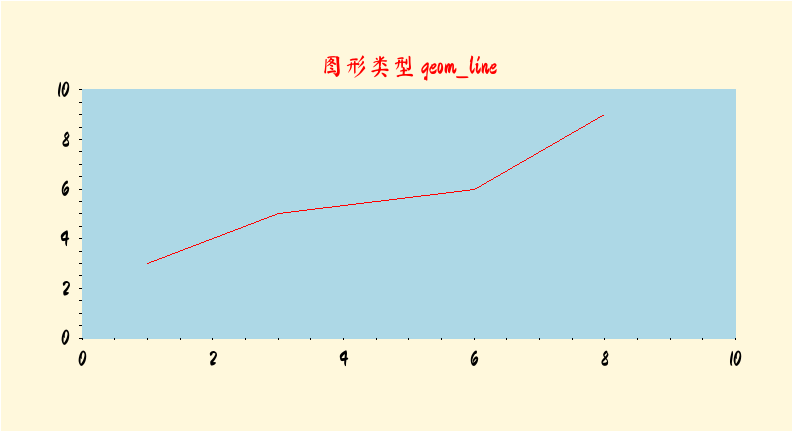
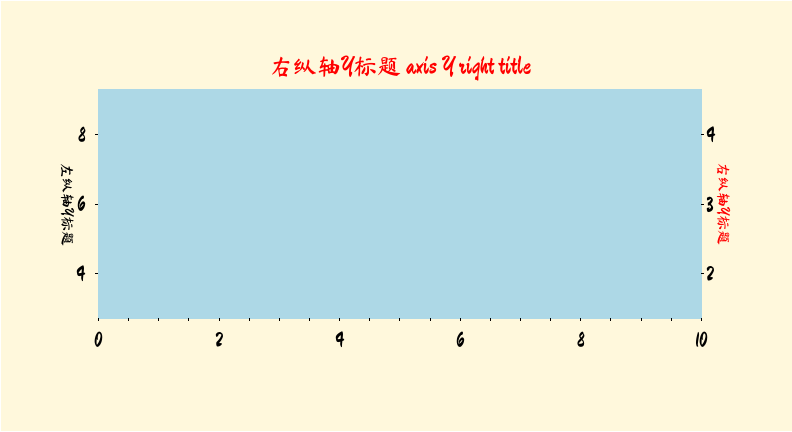
flextable demo

diff --git a/03-slide-class/03-visualization-A-graph.html b/03-slide-class/03-visualization-A-graph.html
@@ -10,6 +10,18 @@
     <link href="libs/tachyons/tachyons.min.css" rel="stylesheet" />
     <link href="libs/panelset/panelset.css" rel="stylesheet" />
     <script src="libs/panelset/panelset.js"></script>
+    <link href="libs/tabwid/tabwid.css" rel="stylesheet" />
+    <script src="libs/htmlwidgets/htmlwidgets.js"></script>
+    <script src="libs/jquery/jquery.min.js"></script>
+    <link href="libs/datatables-css/datatables-crosstalk.css" rel="stylesheet" />
+    <script src="libs/datatables-binding/datatables.js"></script>
+    <link href="libs/dt-core/css/jquery.dataTables.min.css" rel="stylesheet" />
+    <link href="libs/dt-core/css/jquery.dataTables.extra.css" rel="stylesheet" />
+    <script src="libs/dt-core/js/jquery.dataTables.min.js"></script>
+    <link href="libs/crosstalk/css/crosstalk.css" rel="stylesheet" />
+    <script src="libs/crosstalk/js/crosstalk.min.js"></script>
+    <script src="libs/kePrint/kePrint.js"></script>
+    <link href="libs/lightable/lightable.css" rel="stylesheet" />
     <link rel="stylesheet" href="../mycss/my-theme.css" type="text/css" />
     <link rel="stylesheet" href="../mycss/my-font.css" type="text/css" />
     <link rel="stylesheet" href="../mycss/my-custom-for-video-roomy.css" type="text/css" />
@@ -33,7 +45,7 @@ class: center,middle
 
 ### huhuaping01@hotmail.com
 
-### 2021-04-30
+### 2021-05-06
 
 
 
@@ -254,8 +266,39 @@ exclude: true
 
 ]
 
+
 ]
 
+---
+
+### 坐标轴3 axis
+
+.panelset[
+
+.panel[.panel-name[h.横标题]
+
+&lt;img src="03-visualization-A-graph_files/figure-html/unnamed-chunk-17-1.png" style="display: block; margin: auto;" /&gt;
+
+
+]
+
+
+.panel[.panel-name[h.左纵轴标题]
+
+&lt;img src="03-visualization-A-graph_files/figure-html/unnamed-chunk-18-1.png" style="display: block; margin: auto;" /&gt;
+
+]
+
+
+.panel[.panel-name[h.右纵轴标题]
+
+
+&lt;img src="03-visualization-A-graph_files/figure-html/unnamed-chunk-19-1.png" style="display: block; margin: auto;" /&gt;
+
+]
+
+
+]
 
 
 ---
@@ -265,24 +308,24 @@ exclude: true
 .panelset[
 .panel[.panel-name[a.点图1]
 
-&lt;img src="03-visualization-A-graph_files/figure-html/unnamed-chunk-17-1.png" style="display: block; margin: auto;" /&gt;
+&lt;img src="03-visualization-A-graph_files/figure-html/unnamed-chunk-20-1.png" style="display: block; margin: auto;" /&gt;
 
 ]
 
 .panel[.panel-name[b.点图2]
 
-&lt;img src="03-visualization-A-graph_files/figure-html/unnamed-chunk-18-1.png" style="display: block; margin: auto;" /&gt;
+&lt;img src="03-visualization-A-graph_files/figure-html/unnamed-chunk-21-1.png" style="display: block; margin: auto;" /&gt;
 
 ]
 
 .panel[.panel-name[c.线图1]
 
-&lt;img src="03-visualization-A-graph_files/figure-html/unnamed-chunk-19-1.png" style="display: block; margin: auto;" /&gt;
+&lt;img src="03-visualization-A-graph_files/figure-html/unnamed-chunk-22-1.png" style="display: block; margin: auto;" /&gt;
 ]
 
 .panel[.panel-name[d.线图2]
 
-&lt;img src="03-visualization-A-graph_files/figure-html/unnamed-chunk-20-1.png" style="display: block; margin: auto;" /&gt;
+&lt;img src="03-visualization-A-graph_files/figure-html/unnamed-chunk-23-1.png" style="display: block; margin: auto;" /&gt;
 
 ]
 
@@ -293,7 +336,7 @@ exclude: true
 
 ### 变量数值 data value
 
-&lt;img src="03-visualization-A-graph_files/figure-html/unnamed-chunk-21-1.png" style="display: block; margin: auto;" /&gt;
+&lt;img src="03-visualization-A-graph_files/figure-html/unnamed-chunk-24-1.png" style="display: block; margin: auto;" /&gt;
 
 ---
 
@@ -302,14 +345,14 @@ exclude: true
 .panelset[
 .panel[.panel-name[a.图例靠右]
 
-&lt;img src="03-visualization-A-graph_files/figure-html/unnamed-chunk-22-1.png" style="display: block; margin: auto;" /&gt;
+&lt;img src="03-visualization-A-graph_files/figure-html/unnamed-chunk-25-1.png" style="display: block; margin: auto;" /&gt;
 
 ]
 
 
 .panel[.panel-name[b.图例靠下]
 
-&lt;img src="03-visualization-A-graph_files/figure-html/unnamed-chunk-23-1.png" style="display: block; margin: auto;" /&gt;
+&lt;img src="03-visualization-A-graph_files/figure-html/unnamed-chunk-26-1.png" style="display: block; margin: auto;" /&gt;
 
 
 ]
@@ -323,14 +366,14 @@ exclude: true
 .panelset[
 .panel[.panel-name[a.图注]
 
-&lt;img src="03-visualization-A-graph_files/figure-html/unnamed-chunk-24-1.png" style="display: block; margin: auto;" /&gt;
+&lt;img src="03-visualization-A-graph_files/figure-html/unnamed-chunk-27-1.png" style="display: block; margin: auto;" /&gt;
 
 ]
 
 .panel[.panel-name[b.图题]
 
 &lt;div class="figure" style="text-align: center"&gt;
-&lt;img src="03-visualization-A-graph_files/figure-html/unnamed-chunk-25-1.png" alt="图3-0:plot caption演示"  /&gt;
+&lt;img src="03-visualization-A-graph_files/figure-html/unnamed-chunk-28-1.png" alt="图3-0:plot caption演示"  /&gt;
 &lt;p class="caption"&gt;图3-0:plot caption演示&lt;/p&gt;
 &lt;/div&gt;
 
@@ -351,9 +394,138 @@ exclude: true
 
 .fl.w-80.pa2[
 
-&lt;img src="03-visualization-A-graph_files/figure-html/unnamed-chunk-26-1.png" style="display: block; margin: auto;" /&gt;
+&lt;img src="03-visualization-A-graph_files/figure-html/unnamed-chunk-29-1.png" style="display: block; margin: auto;" /&gt;
 
 ]
+
+
+---
+
+class: flextable
+
+### 表格规范
+
+表格要素包括：表序号（numbering）、表题（title）、表头（header）、主体（body）和表注（footer）等部分构成。
+
+
+
+&lt;template id="ad0e0a81-a2dc-40f4-9f1c-044b2836dd5c"&gt;&lt;style&gt;
+.tabwid table{
+  border-collapse:collapse;
+  line-height:1;
+  margin-left:auto;
+  margin-right:auto;
+  border-width: 0;
+  display: table;
+  margin-top: 1.275em;
+  margin-bottom: 1.275em;
+  border-spacing: 0;
+  border-color: transparent;
+}
+.tabwid_left table{
+  margin-left:0;
+}
+.tabwid_right table{
+  margin-right:0;
+}
+.tabwid td {
+    padding: 0;
+}
+.tabwid a {
+  text-decoration: none;
+}
+.tabwid thead {
+    background-color: transparent;
+}
+.tabwid tfoot {
+    background-color: transparent;
+}
+.tabwid table tr {
+background-color: transparent;
+}
+&lt;/style&gt;&lt;div class="tabwid"&gt;&lt;style&gt;.cl-ec0a9952{border-collapse:collapse;}.cl-ebfbf3e8{font-family:'Ma Shan Zheng';font-size:16pt;font-weight:normal;font-style:normal;text-decoration:none;color:rgba(0, 0, 0, 1.00);background-color:transparent;}.cl-ebfbf3e9{font-family:'Ma Shan Zheng';font-size:9.6pt;font-weight:normal;font-style:normal;text-decoration:none;color:rgba(0, 0, 0, 1.00);background-color:transparent;position: relative;bottom:4.8pt;}.cl-ebfbf3ea{font-family:'Ma Shan Zheng';font-size:9.6pt;font-weight:normal;font-style:normal;text-decoration:none;color:rgba(255, 0, 0, 1.00);background-color:transparent;position: relative;bottom:4.8pt;}.cl-ebfbf3eb{font-family:'Ma Shan Zheng';font-size:16pt;font-weight:normal;font-style:normal;text-decoration:none;color:rgba(255, 0, 0, 1.00);background-color:transparent;}.cl-ebfc4050{margin:0;text-align:center;border-bottom: 0 solid rgba(0, 0, 0, 1.00);border-top: 0 solid rgba(0, 0, 0, 1.00);border-left: 0 solid rgba(0, 0, 0, 1.00);border-right: 0 solid rgba(0, 0, 0, 1.00);padding-bottom:0;padding-top:0;padding-left:0;padding-right:0;line-height: 1;background-color:transparent;}.cl-ebfc4051{margin:0;text-align:center;border-bottom: 0 solid rgba(0, 0, 0, 1.00);border-top: 0 solid rgba(0, 0, 0, 1.00);border-left: 0 solid rgba(0, 0, 0, 1.00);border-right: 0 solid rgba(0, 0, 0, 1.00);padding-bottom:0;padding-top:0;padding-left:0;padding-right:0;line-height: 1;background-color:transparent;}.cl-ebfc4052{margin:0;text-align:left;border-bottom: 0 solid rgba(0, 0, 0, 1.00);border-top: 0 solid rgba(0, 0, 0, 1.00);border-left: 0 solid rgba(0, 0, 0, 1.00);border-right: 0 solid rgba(0, 0, 0, 1.00);padding-bottom:1pt;padding-top:1pt;padding-left:5pt;padding-right:5pt;line-height: 1;background-color:transparent;}.cl-ebfcb670{width:101.1pt;background-color:transparent;vertical-align: middle;border-bottom: 0 solid rgba(0, 0, 0, 1.00);border-top: 0 solid rgba(0, 0, 0, 1.00);border-left: 0 solid rgba(0, 0, 0, 1.00);border-right: 0 solid rgba(0, 0, 0, 1.00);margin-bottom:0;margin-top:0;margin-left:0;margin-right:0;}.cl-ebfcb671{width:89pt;background-color:transparent;vertical-align: middle;border-bottom: 0 solid rgba(0, 0, 0, 1.00);border-top: 0 solid rgba(0, 0, 0, 1.00);border-left: 0 solid rgba(0, 0, 0, 1.00);border-right: 0 solid rgba(0, 0, 0, 1.00);margin-bottom:0;margin-top:0;margin-left:0;margin-right:0;}.cl-ebfcb672{width:64.1pt;background-color:transparent;vertical-align: middle;border-bottom: 0 solid rgba(0, 0, 0, 1.00);border-top: 0 solid rgba(0, 0, 0, 1.00);border-left: 0 solid rgba(0, 0, 0, 1.00);border-right: 0 solid rgba(0, 0, 0, 1.00);margin-bottom:0;margin-top:0;margin-left:0;margin-right:0;}.cl-ebfcb673{width:106pt;background-color:transparent;vertical-align: middle;border-bottom: 0 solid rgba(0, 0, 0, 1.00);border-top: 0 solid rgba(0, 0, 0, 1.00);border-left: 0 solid rgba(0, 0, 0, 1.00);border-right: 0 solid rgba(0, 0, 0, 1.00);margin-bottom:0;margin-top:0;margin-left:0;margin-right:0;}.cl-ebfcb674{width:97.9pt;background-color:transparent;vertical-align: middle;border-bottom: 0 solid rgba(0, 0, 0, 1.00);border-top: 0 solid rgba(0, 0, 0, 1.00);border-left: 0 solid rgba(0, 0, 0, 1.00);border-right: 0 solid rgba(0, 0, 0, 1.00);margin-bottom:0;margin-top:0;margin-left:0;margin-right:0;}.cl-ebfcb675{width:97.9pt;background-color:transparent;vertical-align: middle;border-bottom: 2pt solid rgba(102, 102, 102, 1.00);border-top: 0 solid rgba(0, 0, 0, 1.00);border-left: 0 solid rgba(0, 0, 0, 1.00);border-right: 0 solid rgba(0, 0, 0, 1.00);margin-bottom:0;margin-top:0;margin-left:0;margin-right:0;}.cl-ebfcb676{width:101.1pt;background-color:transparent;vertical-align: middle;border-bottom: 2pt solid rgba(102, 102, 102, 1.00);border-top: 0 solid rgba(0, 0, 0, 1.00);border-left: 0 solid rgba(0, 0, 0, 1.00);border-right: 0 solid rgba(0, 0, 0, 1.00);margin-bottom:0;margin-top:0;margin-left:0;margin-right:0;}.cl-ebfcb677{width:106pt;background-color:transparent;vertical-align: middle;border-bottom: 2pt solid rgba(102, 102, 102, 1.00);border-top: 0 solid rgba(0, 0, 0, 1.00);border-left: 0 solid rgba(0, 0, 0, 1.00);border-right: 0 solid rgba(0, 0, 0, 1.00);margin-bottom:0;margin-top:0;margin-left:0;margin-right:0;}.cl-ebfcb678{width:64.1pt;background-color:transparent;vertical-align: middle;border-bottom: 2pt solid rgba(102, 102, 102, 1.00);border-top: 0 solid rgba(0, 0, 0, 1.00);border-left: 0 solid rgba(0, 0, 0, 1.00);border-right: 0 solid rgba(0, 0, 0, 1.00);margin-bottom:0;margin-top:0;margin-left:0;margin-right:0;}.cl-ebfcb679{width:89pt;background-color:transparent;vertical-align: middle;border-bottom: 2pt solid rgba(102, 102, 102, 1.00);border-top: 0 solid rgba(0, 0, 0, 1.00);border-left: 0 solid rgba(0, 0, 0, 1.00);border-right: 0 solid rgba(0, 0, 0, 1.00);margin-bottom:0;margin-top:0;margin-left:0;margin-right:0;}.cl-ebfcb67a{width:89pt;background-color:transparent;vertical-align: middle;border-bottom: 0 solid rgba(255, 255, 255, 0.00);border-top: 0 solid rgba(255, 255, 255, 0.00);border-left: 0 solid rgba(255, 255, 255, 0.00);border-right: 0 solid rgba(255, 255, 255, 0.00);margin-bottom:0;margin-top:0;margin-left:0;margin-right:0;}.cl-ebfcde02{width:97.9pt;background-color:transparent;vertical-align: middle;border-bottom: 0 solid rgba(255, 255, 255, 0.00);border-top: 0 solid rgba(255, 255, 255, 0.00);border-left: 0 solid rgba(255, 255, 255, 0.00);border-right: 0 solid rgba(255, 255, 255, 0.00);margin-bottom:0;margin-top:0;margin-left:0;margin-right:0;}.cl-ebfcde03{width:64.1pt;background-color:transparent;vertical-align: middle;border-bottom: 0 solid rgba(255, 255, 255, 0.00);border-top: 0 solid rgba(255, 255, 255, 0.00);border-left: 0 solid rgba(255, 255, 255, 0.00);border-right: 0 solid rgba(255, 255, 255, 0.00);margin-bottom:0;margin-top:0;margin-left:0;margin-right:0;}.cl-ebfcde04{width:106pt;background-color:transparent;vertical-align: middle;border-bottom: 0 solid rgba(255, 255, 255, 0.00);border-top: 0 solid rgba(255, 255, 255, 0.00);border-left: 0 solid rgba(255, 255, 255, 0.00);border-right: 0 solid rgba(255, 255, 255, 0.00);margin-bottom:0;margin-top:0;margin-left:0;margin-right:0;}.cl-ebfcde05{width:101.1pt;background-color:transparent;vertical-align: middle;border-bottom: 0 solid rgba(255, 255, 255, 0.00);border-top: 0 solid rgba(255, 255, 255, 0.00);border-left: 0 solid rgba(255, 255, 255, 0.00);border-right: 0 solid rgba(255, 255, 255, 0.00);margin-bottom:0;margin-top:0;margin-left:0;margin-right:0;}.cl-ebfcde06{width:89pt;background-color:transparent;vertical-align: bottom;border-bottom: 2pt solid rgba(102, 102, 102, 1.00);border-top: 2pt solid rgba(102, 102, 102, 1.00);border-left: 0 solid rgba(0, 0, 0, 1.00);border-right: 0 solid rgba(0, 0, 0, 1.00);margin-bottom:0;margin-top:0;margin-left:0;margin-right:0;}.cl-ebfcde07{width:64.1pt;background-color:transparent;vertical-align: bottom;border-bottom: 2pt solid rgba(102, 102, 102, 1.00);border-top: 2pt solid rgba(102, 102, 102, 1.00);border-left: 0 solid rgba(0, 0, 0, 1.00);border-right: 0 solid rgba(0, 0, 0, 1.00);margin-bottom:0;margin-top:0;margin-left:0;margin-right:0;}.cl-ebfcde08{width:101.1pt;background-color:transparent;vertical-align: bottom;border-bottom: 2pt solid rgba(102, 102, 102, 1.00);border-top: 2pt solid rgba(102, 102, 102, 1.00);border-left: 0 solid rgba(0, 0, 0, 1.00);border-right: 0 solid rgba(0, 0, 0, 1.00);margin-bottom:0;margin-top:0;margin-left:0;margin-right:0;}.cl-ebfcde09{width:97.9pt;background-color:transparent;vertical-align: bottom;border-bottom: 2pt solid rgba(102, 102, 102, 1.00);border-top: 2pt solid rgba(102, 102, 102, 1.00);border-left: 0 solid rgba(0, 0, 0, 1.00);border-right: 0 solid rgba(0, 0, 0, 1.00);margin-bottom:0;margin-top:0;margin-left:0;margin-right:0;}.cl-ebfcde0a{width:106pt;background-color:transparent;vertical-align: bottom;border-bottom: 2pt solid rgba(102, 102, 102, 1.00);border-top: 2pt solid rgba(102, 102, 102, 1.00);border-left: 0 solid rgba(0, 0, 0, 1.00);border-right: 0 solid rgba(0, 0, 0, 1.00);margin-bottom:0;margin-top:0;margin-left:0;margin-right:0;}&lt;/style&gt;&lt;table class='cl-ec0a9952'&gt;&lt;caption class=""&gt;表3-2：iris dataset数据集&lt;/caption&gt;&lt;thead&gt;&lt;tr style="overflow-wrap:break-word;"&gt;&lt;td class="cl-ebfcde0a"&gt;&lt;p class="cl-ebfc4050"&gt;&lt;span class="cl-ebfbf3e8"&gt;Sepal.Length&lt;/span&gt;&lt;span class="cl-ebfbf3e9"&gt;a&lt;/span&gt;&lt;/p&gt;&lt;/td&gt;&lt;td class="cl-ebfcde09"&gt;&lt;p class="cl-ebfc4050"&gt;&lt;span class="cl-ebfbf3e8"&gt;Sepal.Width&lt;/span&gt;&lt;span class="cl-ebfbf3e9"&gt;b&lt;/span&gt;&lt;/p&gt;&lt;/td&gt;&lt;td class="cl-ebfcde08"&gt;&lt;p class="cl-ebfc4050"&gt;&lt;span class="cl-ebfbf3e8"&gt;Petal.Length&lt;/span&gt;&lt;span class="cl-ebfbf3e9"&gt;c&lt;/span&gt;&lt;/p&gt;&lt;/td&gt;&lt;td class="cl-ebfcde06"&gt;&lt;p class="cl-ebfc4050"&gt;&lt;span class="cl-ebfbf3e8"&gt;Petal.Width&lt;/span&gt;&lt;/p&gt;&lt;/td&gt;&lt;td class="cl-ebfcde07"&gt;&lt;p class="cl-ebfc4050"&gt;&lt;span class="cl-ebfbf3e8"&gt;Species&lt;/span&gt;&lt;/p&gt;&lt;/td&gt;&lt;/tr&gt;&lt;/thead&gt;&lt;tbody&gt;&lt;tr style="overflow-wrap:break-word;"&gt;&lt;td class="cl-ebfcb673"&gt;&lt;p class="cl-ebfc4051"&gt;&lt;span class="cl-ebfbf3e8"&gt;5.1&lt;/span&gt;&lt;/p&gt;&lt;/td&gt;&lt;td class="cl-ebfcb674"&gt;&lt;p class="cl-ebfc4051"&gt;&lt;span class="cl-ebfbf3e8"&gt;3.5&lt;/span&gt;&lt;/p&gt;&lt;/td&gt;&lt;td class="cl-ebfcb670"&gt;&lt;p class="cl-ebfc4051"&gt;&lt;span class="cl-ebfbf3e8"&gt;1.4&lt;/span&gt;&lt;/p&gt;&lt;/td&gt;&lt;td class="cl-ebfcb671"&gt;&lt;p class="cl-ebfc4051"&gt;&lt;span class="cl-ebfbf3e8"&gt;0.2&lt;/span&gt;&lt;/p&gt;&lt;/td&gt;&lt;td class="cl-ebfcb672"&gt;&lt;p class="cl-ebfc4051"&gt;&lt;span class="cl-ebfbf3e8"&gt;setosa&lt;/span&gt;&lt;/p&gt;&lt;/td&gt;&lt;/tr&gt;&lt;tr style="overflow-wrap:break-word;"&gt;&lt;td class="cl-ebfcb673"&gt;&lt;p class="cl-ebfc4051"&gt;&lt;span class="cl-ebfbf3e8"&gt;4.9&lt;/span&gt;&lt;/p&gt;&lt;/td&gt;&lt;td class="cl-ebfcb674"&gt;&lt;p class="cl-ebfc4051"&gt;&lt;span class="cl-ebfbf3e8"&gt;3.0&lt;/span&gt;&lt;/p&gt;&lt;/td&gt;&lt;td class="cl-ebfcb670"&gt;&lt;p class="cl-ebfc4051"&gt;&lt;span class="cl-ebfbf3e8"&gt;1.4&lt;/span&gt;&lt;/p&gt;&lt;/td&gt;&lt;td class="cl-ebfcb671"&gt;&lt;p class="cl-ebfc4051"&gt;&lt;span class="cl-ebfbf3e8"&gt;0.2&lt;/span&gt;&lt;/p&gt;&lt;/td&gt;&lt;td class="cl-ebfcb672"&gt;&lt;p class="cl-ebfc4051"&gt;&lt;span class="cl-ebfbf3e8"&gt;setosa&lt;/span&gt;&lt;/p&gt;&lt;/td&gt;&lt;/tr&gt;&lt;tr style="overflow-wrap:break-word;"&gt;&lt;td class="cl-ebfcb673"&gt;&lt;p class="cl-ebfc4051"&gt;&lt;span class="cl-ebfbf3e8"&gt;4.7&lt;/span&gt;&lt;/p&gt;&lt;/td&gt;&lt;td class="cl-ebfcb674"&gt;&lt;p class="cl-ebfc4051"&gt;&lt;span class="cl-ebfbf3e8"&gt;3.2&lt;/span&gt;&lt;/p&gt;&lt;/td&gt;&lt;td class="cl-ebfcb670"&gt;&lt;p class="cl-ebfc4051"&gt;&lt;span class="cl-ebfbf3e8"&gt;1.3&lt;/span&gt;&lt;/p&gt;&lt;/td&gt;&lt;td class="cl-ebfcb671"&gt;&lt;p class="cl-ebfc4051"&gt;&lt;span class="cl-ebfbf3e8"&gt;0.2&lt;/span&gt;&lt;/p&gt;&lt;/td&gt;&lt;td class="cl-ebfcb672"&gt;&lt;p class="cl-ebfc4051"&gt;&lt;span class="cl-ebfbf3e8"&gt;setosa&lt;/span&gt;&lt;/p&gt;&lt;/td&gt;&lt;/tr&gt;&lt;tr style="overflow-wrap:break-word;"&gt;&lt;td class="cl-ebfcb673"&gt;&lt;p class="cl-ebfc4051"&gt;&lt;span class="cl-ebfbf3e8"&gt;4.6&lt;/span&gt;&lt;/p&gt;&lt;/td&gt;&lt;td class="cl-ebfcb674"&gt;&lt;p class="cl-ebfc4051"&gt;&lt;span class="cl-ebfbf3e8"&gt;3.1&lt;/span&gt;&lt;/p&gt;&lt;/td&gt;&lt;td class="cl-ebfcb670"&gt;&lt;p class="cl-ebfc4051"&gt;&lt;span class="cl-ebfbf3e8"&gt;1.5&lt;/span&gt;&lt;/p&gt;&lt;/td&gt;&lt;td class="cl-ebfcb671"&gt;&lt;p class="cl-ebfc4051"&gt;&lt;span class="cl-ebfbf3e8"&gt;0.2&lt;/span&gt;&lt;/p&gt;&lt;/td&gt;&lt;td class="cl-ebfcb672"&gt;&lt;p class="cl-ebfc4051"&gt;&lt;span class="cl-ebfbf3e8"&gt;setosa&lt;/span&gt;&lt;/p&gt;&lt;/td&gt;&lt;/tr&gt;&lt;tr style="overflow-wrap:break-word;"&gt;&lt;td class="cl-ebfcb673"&gt;&lt;p class="cl-ebfc4051"&gt;&lt;span class="cl-ebfbf3e8"&gt;5.0&lt;/span&gt;&lt;/p&gt;&lt;/td&gt;&lt;td class="cl-ebfcb674"&gt;&lt;p class="cl-ebfc4051"&gt;&lt;span class="cl-ebfbf3e8"&gt;3.6&lt;/span&gt;&lt;/p&gt;&lt;/td&gt;&lt;td class="cl-ebfcb670"&gt;&lt;p class="cl-ebfc4051"&gt;&lt;span class="cl-ebfbf3e8"&gt;1.4&lt;/span&gt;&lt;/p&gt;&lt;/td&gt;&lt;td class="cl-ebfcb671"&gt;&lt;p class="cl-ebfc4051"&gt;&lt;span class="cl-ebfbf3e8"&gt;0.2&lt;/span&gt;&lt;/p&gt;&lt;/td&gt;&lt;td class="cl-ebfcb672"&gt;&lt;p class="cl-ebfc4051"&gt;&lt;span class="cl-ebfbf3e8"&gt;setosa&lt;/span&gt;&lt;/p&gt;&lt;/td&gt;&lt;/tr&gt;&lt;tr style="overflow-wrap:break-word;"&gt;&lt;td class="cl-ebfcb677"&gt;&lt;p class="cl-ebfc4051"&gt;&lt;span class="cl-ebfbf3e8"&gt;5.4&lt;/span&gt;&lt;/p&gt;&lt;/td&gt;&lt;td class="cl-ebfcb675"&gt;&lt;p class="cl-ebfc4051"&gt;&lt;span class="cl-ebfbf3e8"&gt;3.9&lt;/span&gt;&lt;/p&gt;&lt;/td&gt;&lt;td class="cl-ebfcb676"&gt;&lt;p class="cl-ebfc4051"&gt;&lt;span class="cl-ebfbf3e8"&gt;1.7&lt;/span&gt;&lt;/p&gt;&lt;/td&gt;&lt;td class="cl-ebfcb679"&gt;&lt;p class="cl-ebfc4051"&gt;&lt;span class="cl-ebfbf3e8"&gt;0.4&lt;/span&gt;&lt;/p&gt;&lt;/td&gt;&lt;td class="cl-ebfcb678"&gt;&lt;p class="cl-ebfc4051"&gt;&lt;span class="cl-ebfbf3e8"&gt;setosa&lt;/span&gt;&lt;/p&gt;&lt;/td&gt;&lt;/tr&gt;&lt;/tbody&gt;&lt;tfoot&gt;&lt;tr style="overflow-wrap:break-word;"&gt;&lt;td  colspan="5"class="cl-ebfcde04"&gt;&lt;p class="cl-ebfc4052"&gt;&lt;span class="cl-ebfbf3ea"&gt;a&lt;/span&gt;&lt;span class="cl-ebfbf3eb"&gt;This is footnote one&lt;/span&gt;&lt;span class="cl-ebfbf3eb"&gt;; &lt;/span&gt;&lt;span class="cl-ebfbf3ea"&gt;b&lt;/span&gt;&lt;span class="cl-ebfbf3eb"&gt;This is footnote two&lt;/span&gt;&lt;span class="cl-ebfbf3eb"&gt;; &lt;/span&gt;&lt;span class="cl-ebfbf3ea"&gt;c&lt;/span&gt;&lt;span class="cl-ebfbf3eb"&gt;This is footnote three&lt;/span&gt;&lt;/p&gt;&lt;/td&gt;&lt;/tr&gt;&lt;/tfoot&gt;&lt;/table&gt;&lt;/div&gt;&lt;/template&gt;
+&lt;div class="flextable-shadow-host" id="8595bfdb-2b8a-406b-8c04-a6b15ed3a220"&gt;&lt;/div&gt;
+&lt;script&gt;
+var dest = document.getElementById("8595bfdb-2b8a-406b-8c04-a6b15ed3a220");
+var template = document.getElementById("ad0e0a81-a2dc-40f4-9f1c-044b2836dd5c");
+var caption = template.content.querySelector("caption");
+if(caption) {
+  caption.style.cssText = "display:block;text-align:center;";
+  var newcapt = document.createElement("p");
+  newcapt.appendChild(caption)
+  dest.parentNode.insertBefore(newcapt, dest.previousSibling);
+}
+var fantome = dest.attachShadow({mode: 'open'});
+var templateContent = template.content;
+fantome.appendChild(templateContent);
+&lt;/script&gt;
+
+---
+
+### DT table
+
+
+<div id="htmlwidget-0552360473d4c1796fbe" style="width:100%;height:auto;" class="datatables html-widget"></div>
+<script type="application/json" data-for="htmlwidget-0552360473d4c1796fbe">{"x":{"filter":"none","caption":"<caption>dataset<\/caption>","data":[["1","2","3","4","5","6"],[5.1,4.9,4.7,4.6,5,5.4],[3.5,3,3.2,3.1,3.6,3.9],[1.4,1.4,1.3,1.5,1.4,1.7],[0.2,0.2,0.2,0.2,0.2,0.4],["setosa","setosa","setosa","setosa","setosa","setosa"]],"container":"<table class=\"display\">\n  <thead>\n    <tr>\n      <th> <\/th>\n      <th>Sepal.Length<\/th>\n      <th>Sepal.Width<\/th>\n      <th>Petal.Length<\/th>\n      <th>Petal.Width<\/th>\n      <th>Species<\/th>\n    <\/tr>\n  <\/thead>\n<\/table>","options":{"dom":"t","columnDefs":[{"className":"dt-center","targets":"_all"},{"visible":false,"targets":0},{"orderable":false,"targets":0}],"order":[],"autoWidth":false,"orderClasses":false}},"evals":[],"jsHooks":[]}</script>
+
+---
+
+### kable extra
+
+&lt;table class="table" style="margin-left: auto; margin-right: auto;"&gt;
+ &lt;thead&gt;
+  &lt;tr&gt;
+   &lt;th style="text-align:left;"&gt;   &lt;/th&gt;
+   &lt;th style="text-align:right;"&gt; mpg &lt;/th&gt;
+   &lt;th style="text-align:right;"&gt; cyl &lt;/th&gt;
+   &lt;th style="text-align:right;"&gt; disp &lt;/th&gt;
+   &lt;th style="text-align:right;"&gt; hp &lt;/th&gt;
+  &lt;/tr&gt;
+ &lt;/thead&gt;
+&lt;tbody&gt;
+  &lt;tr&gt;
+   &lt;td style="text-align:left;"&gt; Mazda RX4 &lt;/td&gt;
+   &lt;td style="text-align:right;"&gt; 21 &lt;/td&gt;
+   &lt;td style="text-align:right;"&gt; 6 &lt;/td&gt;
+   &lt;td style="text-align:right;"&gt; 160 &lt;/td&gt;
+   &lt;td style="text-align:right;"&gt; 110 &lt;/td&gt;
+  &lt;/tr&gt;
+  &lt;tr&gt;
+   &lt;td style="text-align:left;"&gt; Mazda RX4 Wag &lt;/td&gt;
+   &lt;td style="text-align:right;"&gt; 21 &lt;/td&gt;
+   &lt;td style="text-align:right;"&gt; 6 &lt;/td&gt;
+   &lt;td style="text-align:right;"&gt; 160 &lt;/td&gt;
+   &lt;td style="text-align:right;"&gt; 110 &lt;/td&gt;
+  &lt;/tr&gt;
+  &lt;tr&gt;
+   &lt;td style="text-align:left;"&gt; Datsun 710 &lt;/td&gt;
+   &lt;td style="text-align:right;"&gt; 23 &lt;/td&gt;
+   &lt;td style="text-align:right;"&gt; 4 &lt;/td&gt;
+   &lt;td style="text-align:right;"&gt; 108 &lt;/td&gt;
+   &lt;td style="text-align:right;"&gt; 93 &lt;/td&gt;
+  &lt;/tr&gt;
+  &lt;tr&gt;
+   &lt;td style="text-align:left;"&gt; Hornet 4 Drive &lt;/td&gt;
+   &lt;td style="text-align:right;"&gt; 21 &lt;/td&gt;
+   &lt;td style="text-align:right;"&gt; 6 &lt;/td&gt;
+   &lt;td style="text-align:right;"&gt; 258 &lt;/td&gt;
+   &lt;td style="text-align:right;"&gt; 110 &lt;/td&gt;
+  &lt;/tr&gt;
+  &lt;tr&gt;
+   &lt;td style="text-align:left;"&gt; Hornet Sportabout &lt;/td&gt;
+   &lt;td style="text-align:right;"&gt; 19 &lt;/td&gt;
+   &lt;td style="text-align:right;"&gt; 8 &lt;/td&gt;
+   &lt;td style="text-align:right;"&gt; 360 &lt;/td&gt;
+   &lt;td style="text-align:right;"&gt; 175 &lt;/td&gt;
+  &lt;/tr&gt;
+&lt;/tbody&gt;
+&lt;tfoot&gt;
+&lt;tr&gt;
+&lt;td style = 'padding: 0; border:0;' colspan='100%'&gt;&lt;sup&gt;a&lt;/sup&gt; Footnote 1&lt;/td&gt;
+&lt;/tr&gt;
+&lt;/tfoot&gt;
+&lt;/table&gt;
+
 
 
 ---

diff --git a/mycss/my-theme.css b/mycss/my-theme.css
@@ -32,6 +32,14 @@ table {
   padding-top: 0px;
 }
 
+/* table caption for flextable */
+
+.flextable caption {
+   color: red;
+   font-size: 90%;
+   font-family: 'Ma Shan Zheng', cursive,'楷体';
+}
+
 /* pagraph margin */
 p {
     display: block;
@@ -75,3 +83,4 @@ ul.panel-tabs {
    width: 25px;
    transform: rotate(90deg);
 }
+
